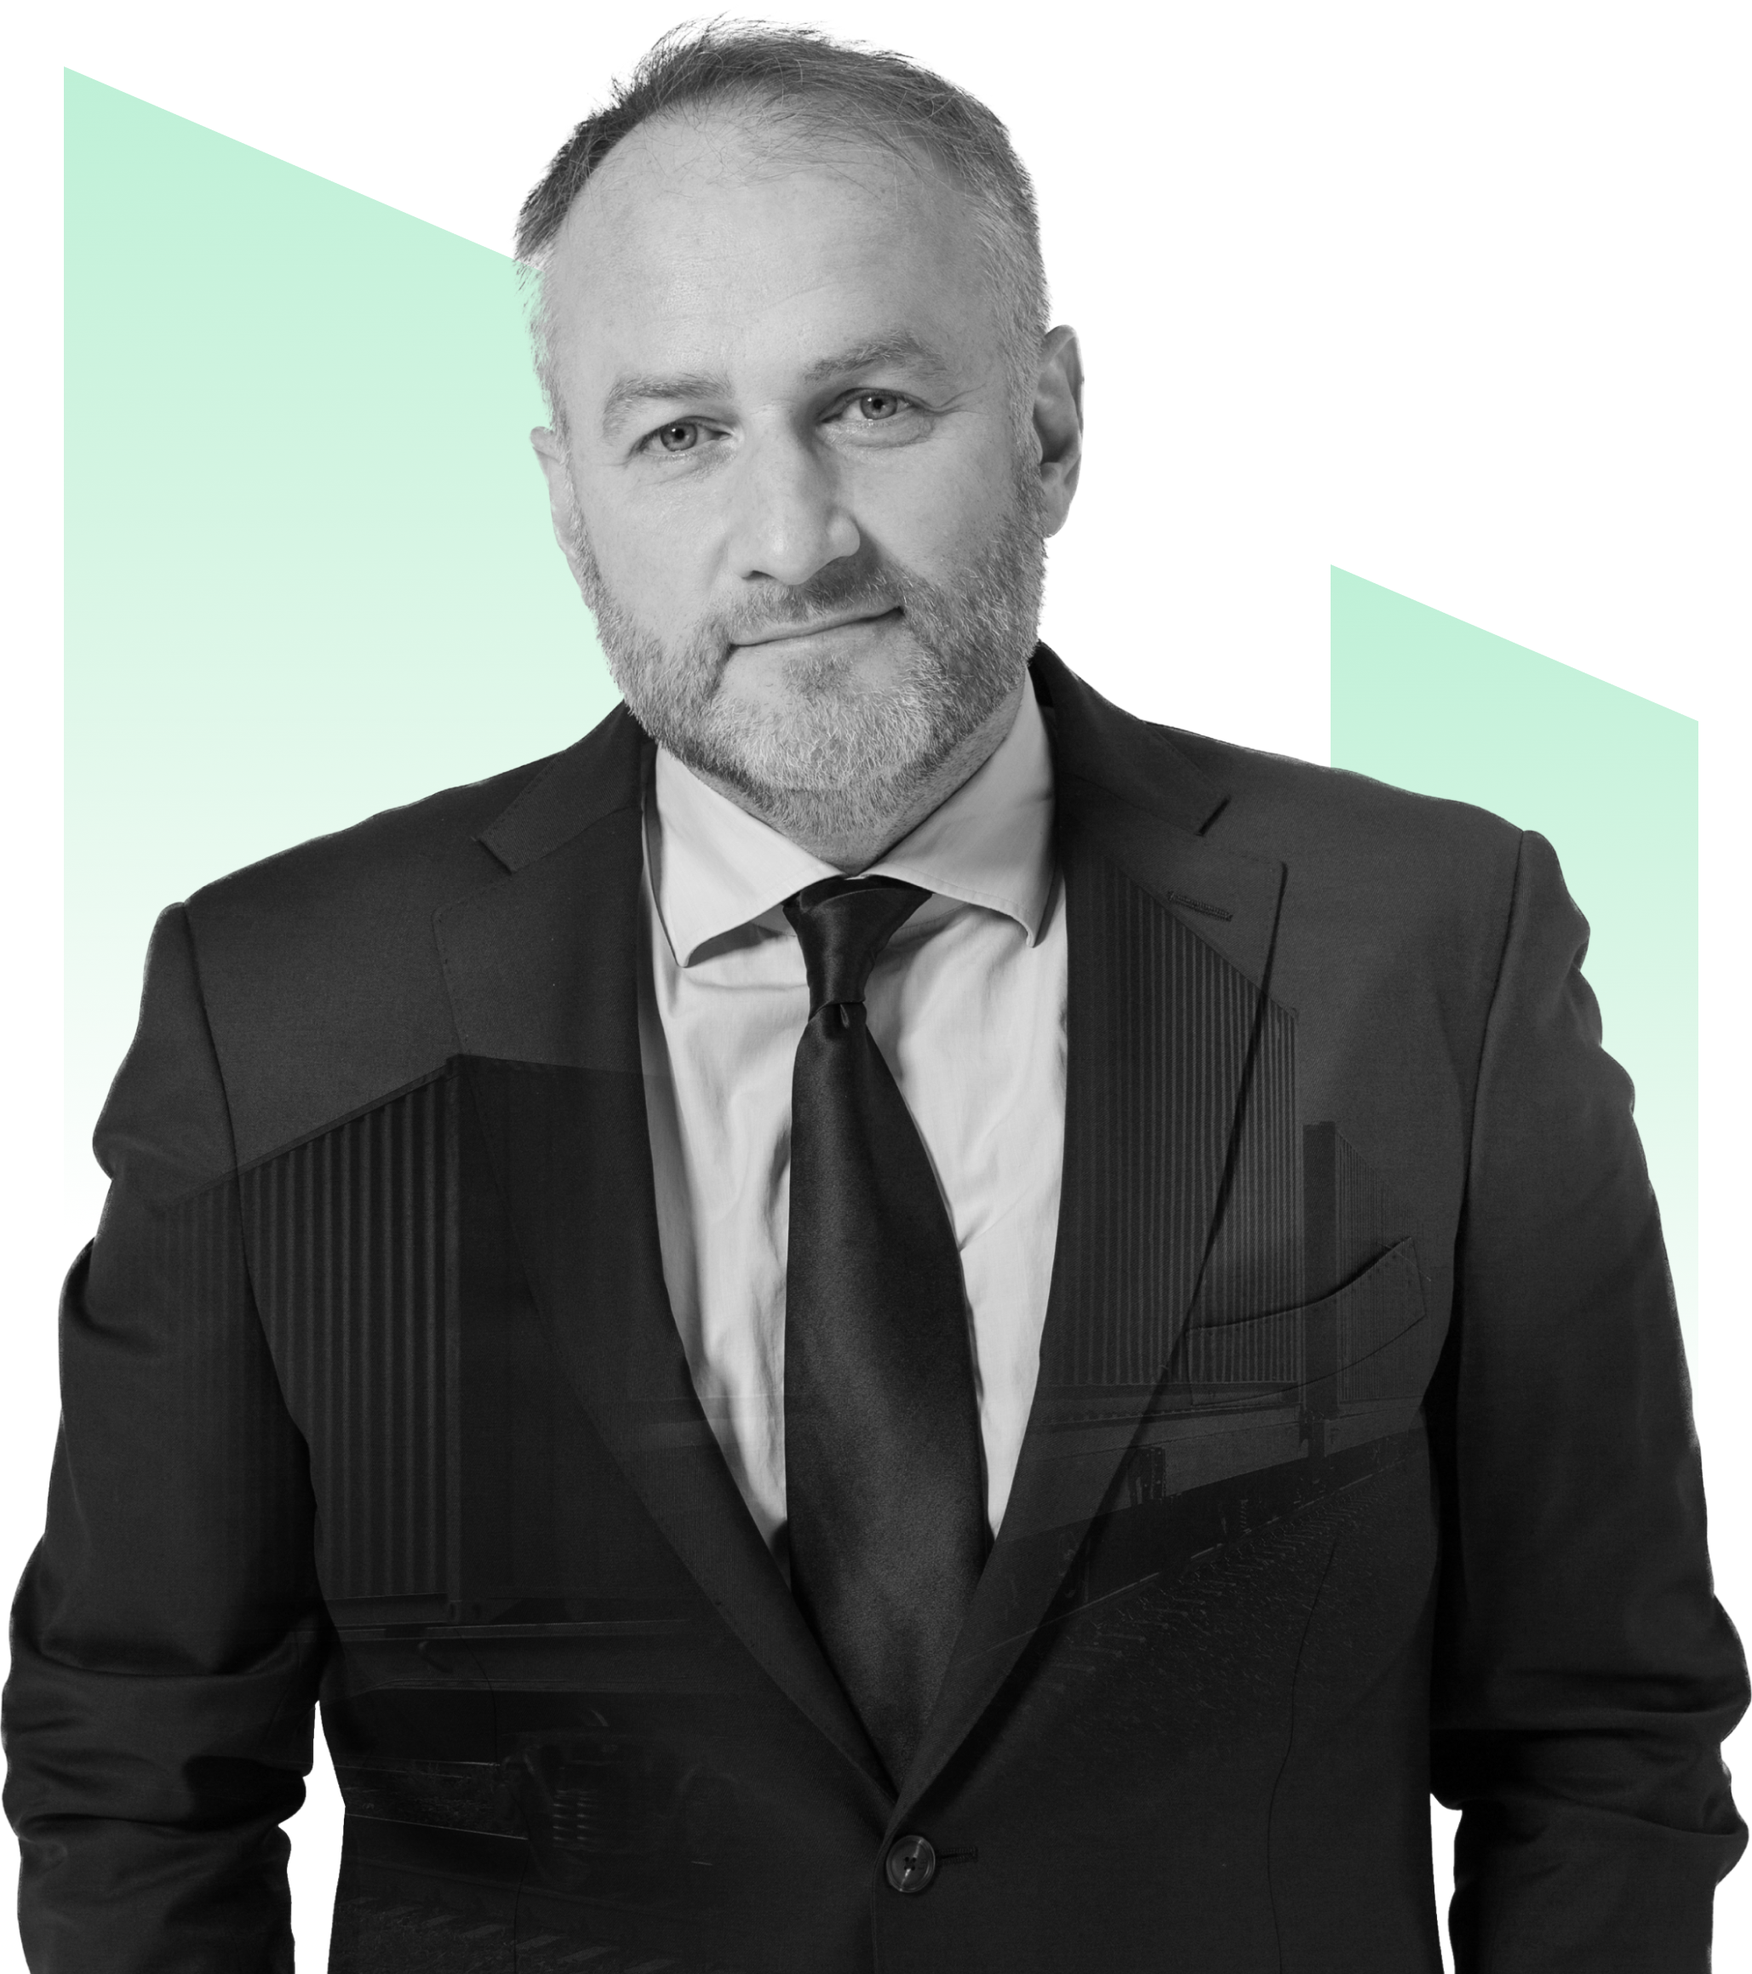
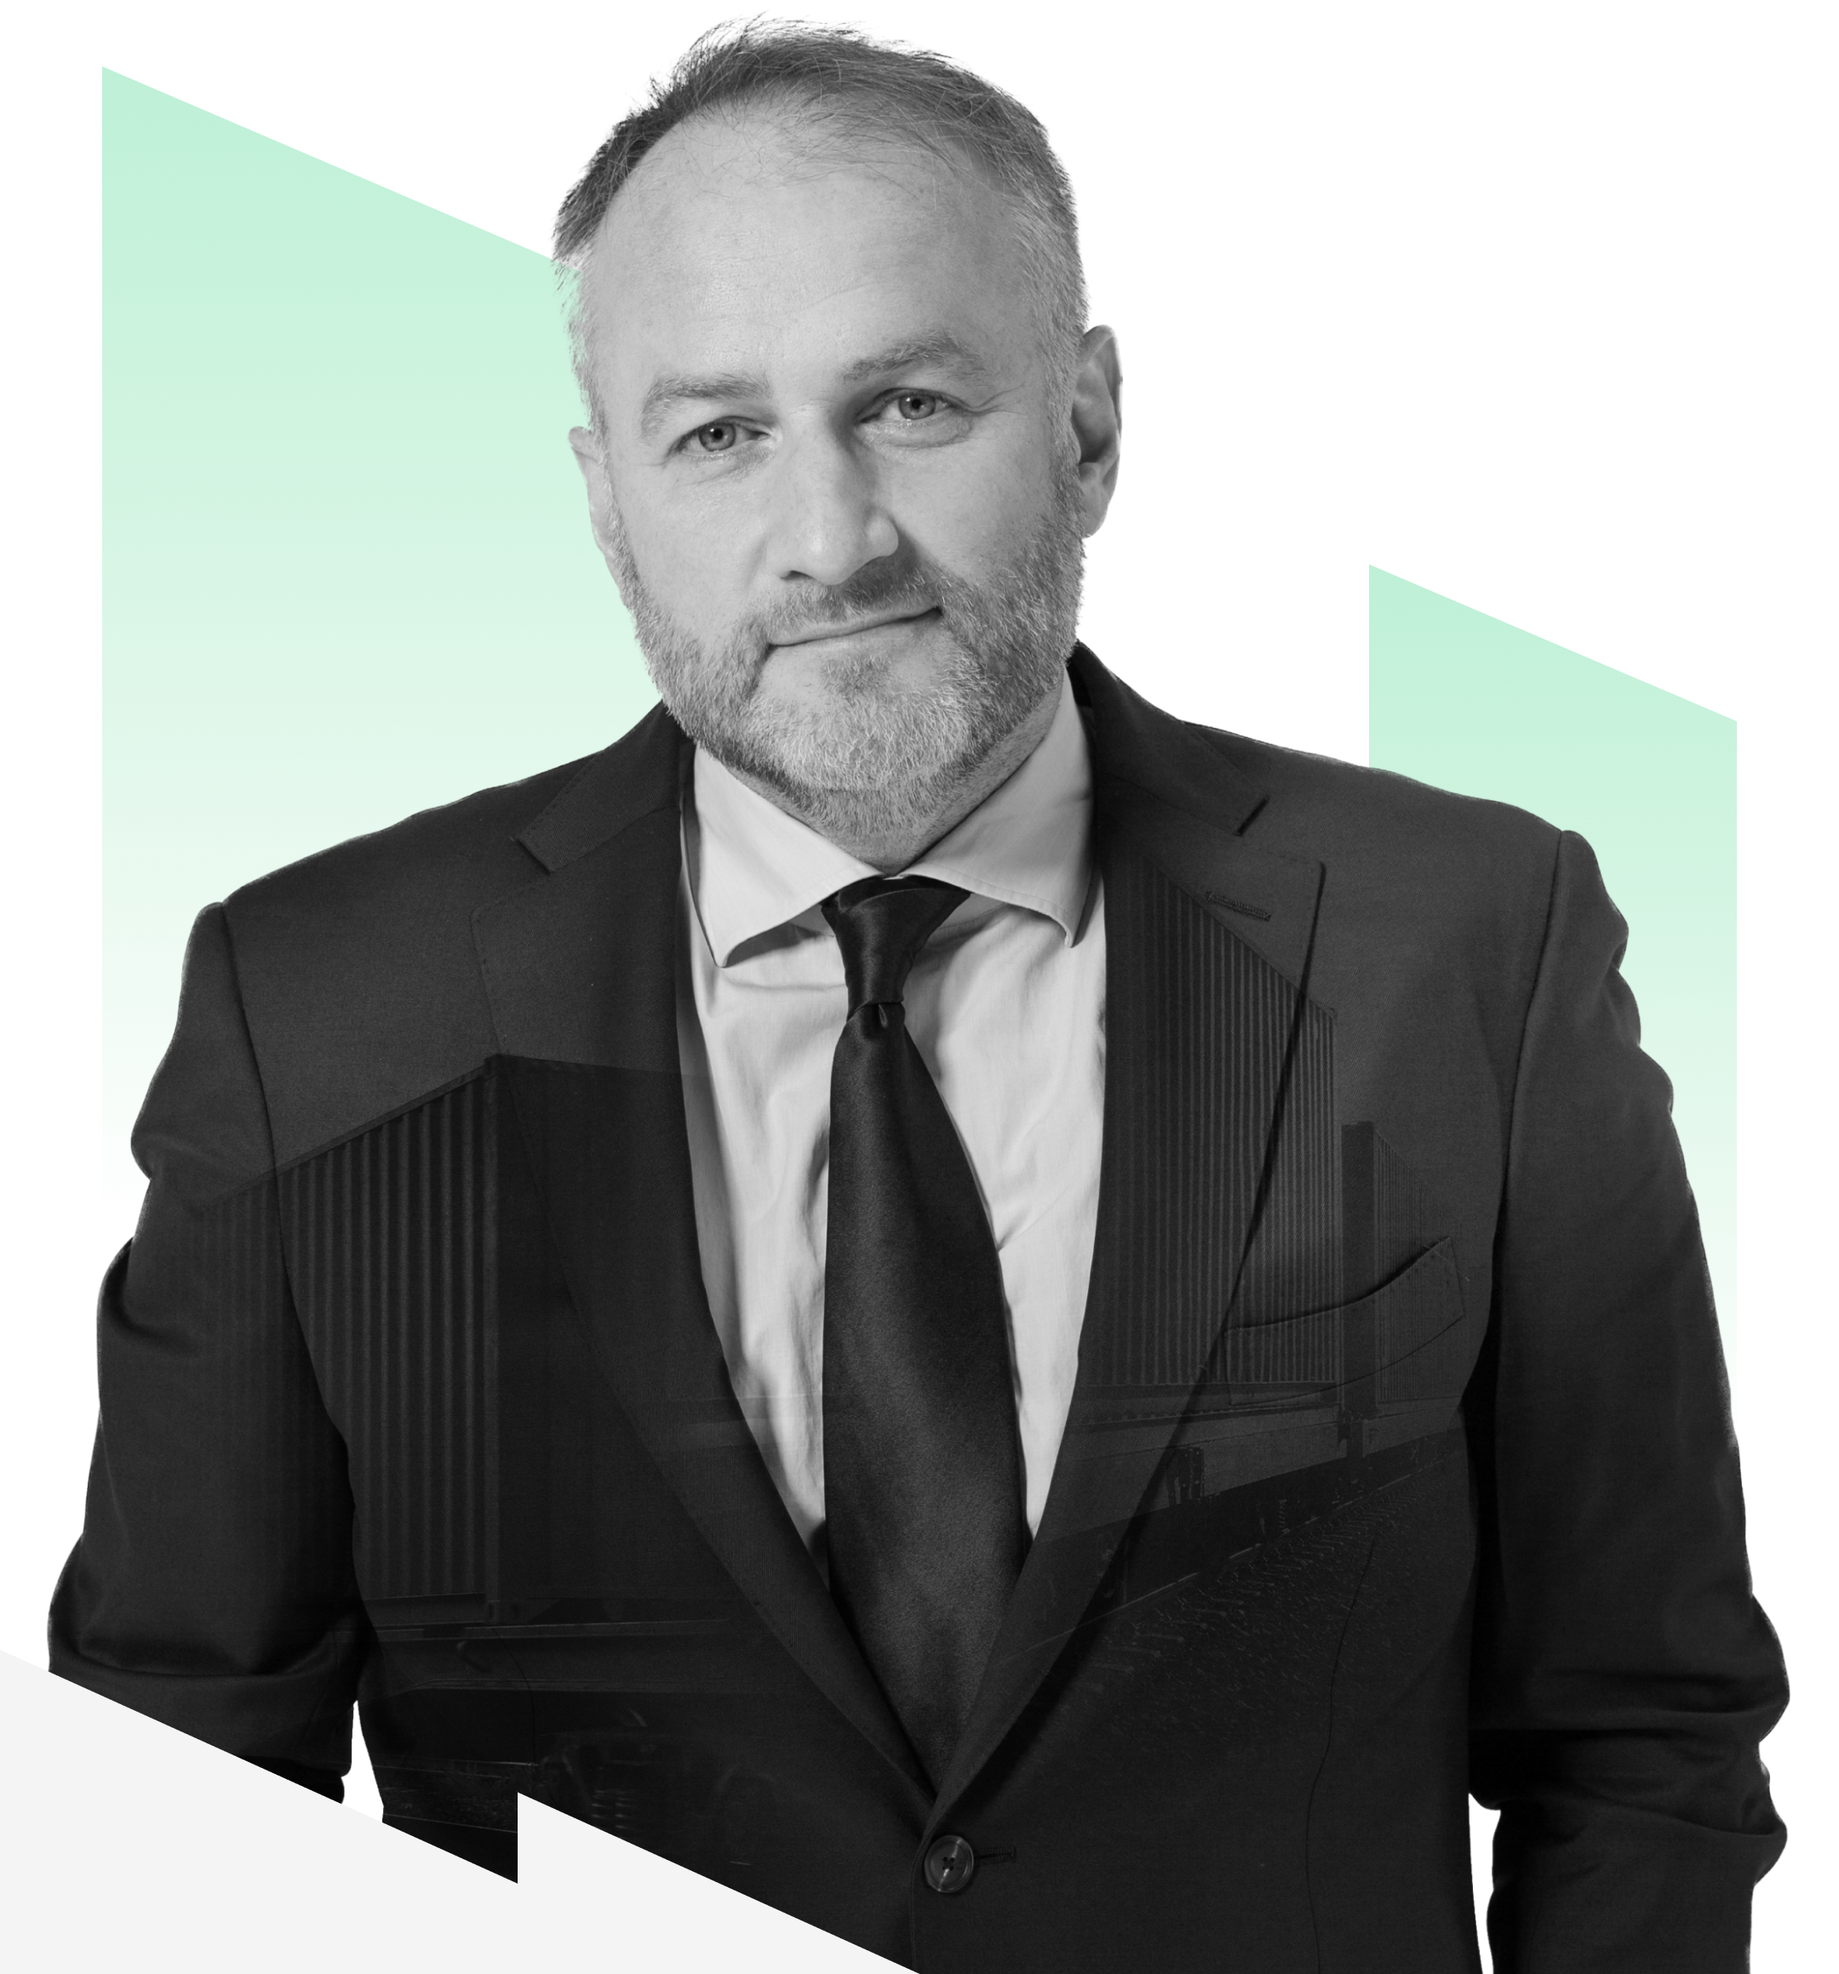
some updates big screens

diff --git a/src/styles/content/components/who-we.scss b/src/styles/content/components/who-we.scss
@@ -846,6 +846,14 @@
         grid-template-columns: repeat(2, 1fr);
         gap: 0px;
 
+        @media #{media("<", d)} {
+          padding: 0px 20px;
+          display: flex;
+          gap: 0px;
+        }
+        @media (min-width:768px) and (max-width: 1025px) {
+          padding: 0px;
+        }
         @media #{media("<", m)} {
           grid-template-columns: repeat(1, 1fr);
           gap: 24px;
@@ -860,7 +868,17 @@
           overflow: hidden;
 
           background: #F4F4F4;
-
+          @media #{media("<", d)} {
+            width: 521px;
+            height: 714px;
+          }
+          @media (min-width:768px) and (max-width: 1025px) {
+            width: 365px;
+            height: 480px;
+            flex-shrink: 0;
+            overflow: visible;
+          }
+          
           @media #{media("<", m)} {
             width: rem(335px);
 
@@ -876,7 +894,12 @@
           height: 1326px;
 
           border: 1px solid color(borders);
-
+          @media (min-width:768px) and (max-width: 1025px) {
+            padding: 84px 20px;
+            height: auto;
+            width: 356px;
+            flex-shrink: 0;
+          }
           @media #{media("<", m)} {
             padding: 84px 20px;
 
@@ -887,10 +910,18 @@
       }
 
       &-img {
-        margin-left: 15px;
-        width: 686px;
-        height: 889px;
+        width: 720px;
+        height: 780px;
 
+        
+        @media #{media("<", d)} {
+          width: 521px;
+          height: 559px;
+        }
+        @media (min-width:768px) and (max-width: 1025px) {
+          width: 365px;
+          height: 413px;
+        }
         @media #{media("<", m)} {
           margin-left: 0px;
 
@@ -955,7 +986,13 @@
             1.5s;
           background: linear-gradient(270deg, color(green) 0%, rgba(255, 255, 255, 0) 79.69%);
         }
-
+        
+        @media #{media("<", d)} {
+          width: 90%;
+        }
+        @media (min-width:768px) and (max-width: 1025px) {
+          top: 12px;
+        }
         @media #{media("<", m)} {
           top: 12px;
           width: 90%;
@@ -965,7 +1002,10 @@
       &-title {
         margin-top: 61px;
         margin-left: 40px;
-
+        @media (min-width:768px) and (max-width: 1025px) {
+          margin-top: 20px;
+          margin-left: 12px;
+        }
         @media #{media("<", m)} {
           margin-bottom: 15px;
           margin-top: 20px;
@@ -986,6 +1026,8 @@
           letter-spacing: -0.03em;
           text-transform: uppercase;
           color: color(dark);
+
+          
         }
 
         &__job {
@@ -995,6 +1037,9 @@
           color: #727A75;
         }
 
+        @media #{media("<", d)} {
+          margin-left: 335px;
+        }
         @media #{media("<", m)} {
           padding-top: 12px;
           position: relative;
@@ -1002,6 +1047,19 @@
           margin-left: 0px;
 
           background: white;
+        }
+
+        &.desktop{
+          @media (min-width:768px) and (max-width: 1025px) {
+            display: none;
+          }
+        }
+        &.devices{
+          display: none;
+          @media (min-width:768px) and (max-width: 1025px) {
+            display: block;
+            margin-left: 0px;
+          }
         }
       }
 
@@ -1013,6 +1071,10 @@
         line-height: 130%;
         color: color(dark);
 
+        @media #{media("<", t)} {
+          font-size: 20px;
+          letter-spacing: -0.02em;
+        }
         @media #{media("<", m)} {
           font-size: rem(20px);
         }
@@ -1020,7 +1082,10 @@
 
       &-text {
         margin-bottom: 12px;
-
+        @media (min-width:768px) and (max-width: 1025px) {
+          font-size: rem(12px);
+          line-height: 160%;
+        }
       }
 
       &-subtext {
@@ -1031,7 +1096,8 @@
         line-height: 150%;
         color: color(dark);
 
-        @media #{media("<", m)} {
+
+        @media #{media("<", t)} {
           margin-bottom: 8px;
 
           font-size: rem(14px);
@@ -1047,7 +1113,7 @@
         line-height: 160%;
         color: #727A75;
 
-        @media #{media("<", m)} {
+        @media #{media("<", t)} {
           font-size: rem(12px);
           line-height: 160%;
         }
@@ -1060,7 +1126,7 @@
           top: 40px;
           left: 60px;
 
-          @media #{media("<", m)} {
+          @media #{media("<", t)} {
             top: 20px;
             left: 20px;
             
@@ -1074,6 +1140,14 @@
         &.green {
           right: 60px;
           bottom: 30px;
+          @media (min-width:768px) and (max-width: 1025px) {
+            right: 264px;
+            bottom: 20px;
+            svg{
+              width: rem(72px);
+              height: rem(44px);
+            }
+          }
           @media #{media("<", m)} {
             bottom: 20px;
             right: 20px;

diff --git a/src/styles/content/components/control.scss b/src/styles/content/components/control.scss
@@ -5,12 +5,22 @@
     height: 635px;
 
     background: #F4F4F4;
+    @media #{media(">", xl)} {
+      padding: 0px 20px;
+
+      width: 100%;
+      height: 830px;
+    }
+    @media (min-width: 1025px) and (max-width: 1280px) {
+    width: 100%;
+    }
+    
     &__img{
       position: absolute;
       top: 0px;
       left: 0px;
 
-      max-width: 1400px;
+      max-width: 100%;
       height: auto;
     }
     &__title{
@@ -27,6 +37,14 @@
       letter-spacing: -0.02em;
       color: #2A2E2B;
       border-top: 1px solid #045C25;
+
+      @media #{media(">", xl)} {
+        left: 360px;
+        top: 692px;
+      }
+      @media (min-width: 1025px) and (max-width: 1280px) {
+        left: 40px;
+      }
     }
   }
 

diff --git a/src/styles/content/components/container.scss b/src/styles/content/components/container.scss
@@ -12,6 +12,25 @@
       max-width: 100%;
     }
   }
+
+  &_control-hero{
+    @media #{media(">", xl)} {
+      padding: 0px 20px;
+      
+      width: 100%;
+      max-width: 100%;
+      height: 830px;
+    }
+  }
+  &_formation-park{
+    @media #{media(">", xl)} {
+      padding: 0px 20px;
+      
+      width: 100%;
+      max-width: 100%;
+      height: 830px;
+    }
+  }
 }
 
 .container-content {

diff --git a/src/styles/content/components/incorporated.scss b/src/styles/content/components/incorporated.scss
@@ -584,9 +584,19 @@
   justify-content: space-between;
 
   max-width: 1284px;
+
+  @media #{media(">", xl)} {
+    padding-left: 274px;
+    gap: 140px;
+  }
+  @media (min-width: 1025px) and (max-width: 1280px) {
+    max-width: 1184px;
+  }
   &__img{
     max-width: 566px;
     max-height: 511px;
+    flex-shrink: 0;
+    
   }
 
   &__content{

diff --git a/src/styles/content/components/text-content.scss b/src/styles/content/components/text-content.scss
@@ -5,8 +5,12 @@ h2 {
   letter-spacing: -0.03em;
   color: color(black);
 
+  @media #{media("<", d)} {
+    font-size: 32px;
+    line-height: 120%;
+  }
   @media (min-width:768px) and (max-width: 1025px) {
-    font-size: 40px;
+    font-size: 24px;
   }
 
   @media #{media('<',m)} {

diff --git a/src/styles/helpers/variables.scss b/src/styles/helpers/variables.scss
@@ -10,7 +10,7 @@ $breakpoints: (
   xl: 1680px,
   ll: 1441px,
   l: 1366px,
-  d: 1280px,
+  d: 1281px,
   t: 1025px,
   m: 768px,
   s: 576px,

diff --git a/src/styles/content/components/formation-park.scss b/src/styles/content/components/formation-park.scss
@@ -6,6 +6,9 @@
   }
   &__picture {
     margin-top: 20px;
+    @media #{media(">", xl)} {
+      height: 100%;
+    }
   }
 
   &__row {
